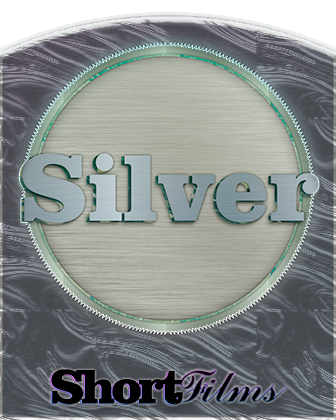
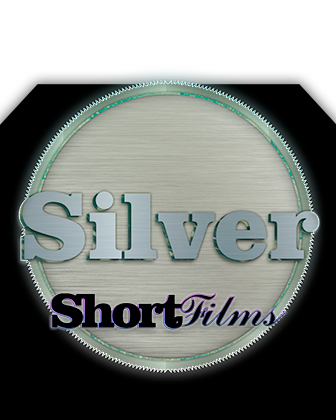
planos corrections

diff --git a/css/planos.css b/css/planos.css
@@ -81,6 +81,8 @@ span {
     display: flex;
     justify-content: center;
     background-image: url(/assets/planosilver.png);
+    background-repeat: no-repeat;
+    background-position: center center;
     position: absolute;
     bottom: 0;
     right: 0;
@@ -92,6 +94,8 @@ span {
     display: flex;
     justify-content: center;
     background-image: url(/assets/planogold.png);    
+    background-repeat: no-repeat;
+    background-position: center center;
     position: absolute;
     bottom: 0;
 }
@@ -102,6 +106,8 @@ span {
     display: flex;
     justify-content: center;
     background-image: url(/assets/planodima.png);
+    background-repeat: no-repeat;
+    background-position: center center;
     position: absolute;
     bottom: 0;
     left: 0;
